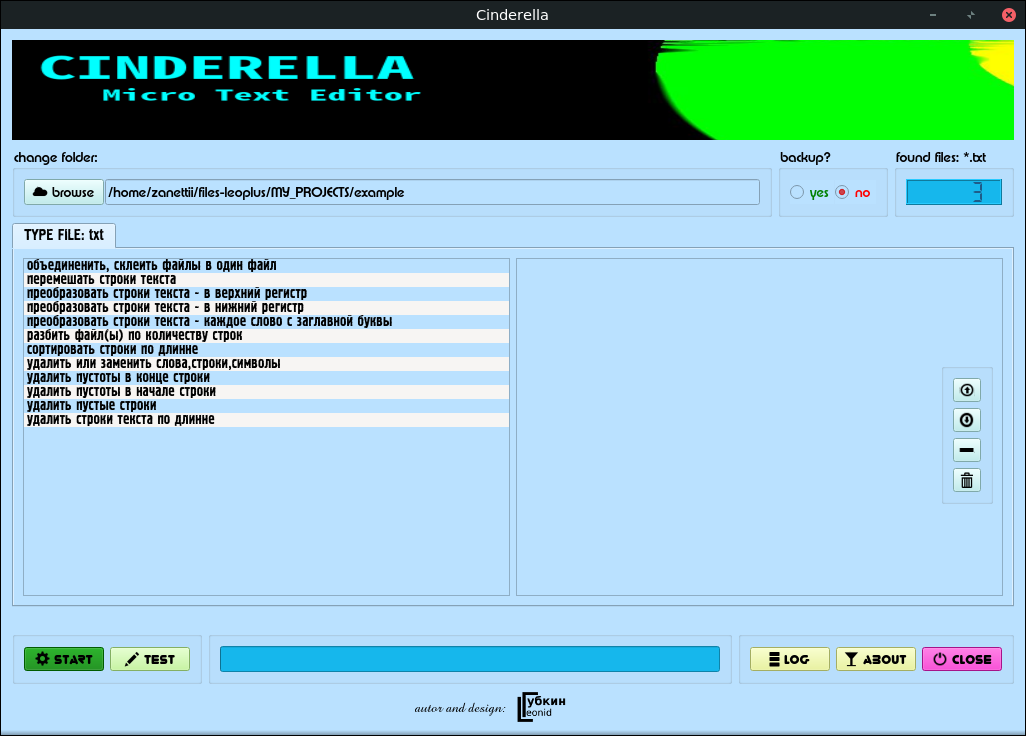
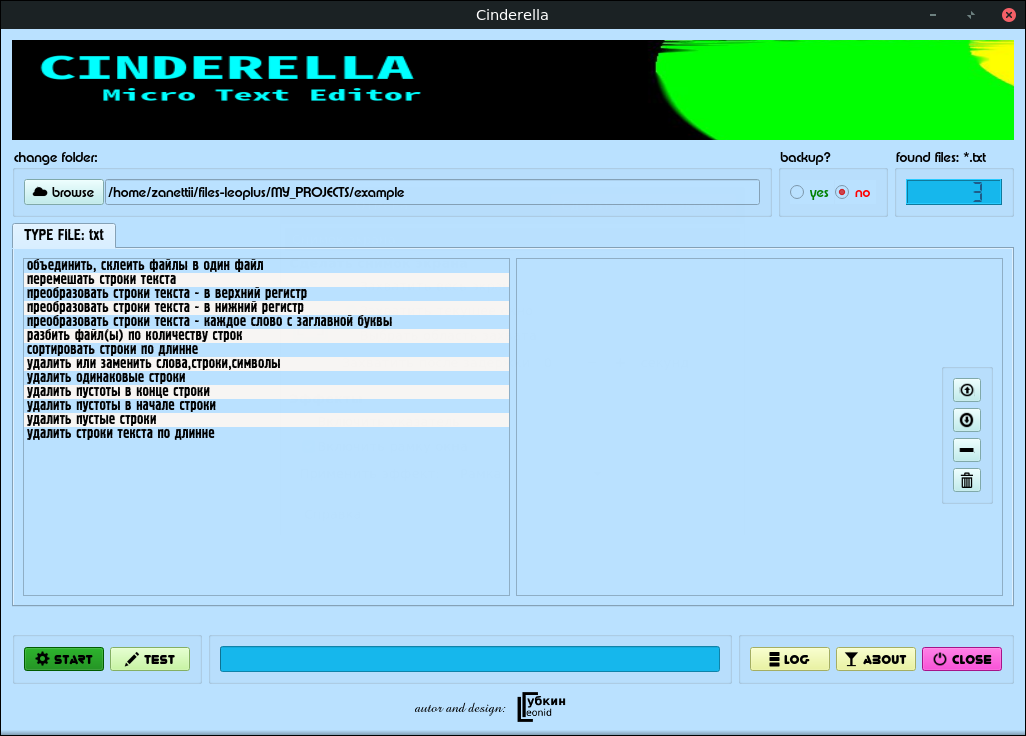
добавлен новый модуль

Changed region(s): [[0.0312, 0.5, 0.2183, 0.5938], [0.0624, 0.3438, 0.2807, 0.375]]

diff --git a/files/text_editors/delete_duplicate_str/view.py b/files/text_editors/delete_duplicate_str/view.py
@@ -1,0 +1,97 @@
+#!/usr/bin/env python3
+# -*- coding: utf-8 -*-
+"""
+Created on  05.09.2019
+
+@author: Gubkin Leonid
+
+Cinderella - Text Editor
+
+МОДУЛЬ БЕЗ НАСТРОЕК
+"""
+
+from PyQt5 import QtWidgets, QtGui, QtCore
+import os
+from ..techfunction import title_project,icon_project, tocenter
+
+
+class View(QtWidgets.QWidget):
+    def __init__(self,parent=None):
+        QtWidgets.QFrame.__init__(self,parent)
+        self.name = 'Удаление одинаковых строк'
+        self.descr = 'Модуль позволяет удалить одинаковые строки'
+        self.resize(300,300)
+        #====================
+        self.setWindowIcon(QtGui.QIcon(icon_project))
+        self.setWindowTitle(self.name + ' | Настройки | ' + title_project)
+        self.setWindowFlags(QtCore.Qt.Window|QtCore.Qt.WindowStaysOnTopHint|QtCore.Qt.MSWindowsFixedSizeDialogHint)
+        self.setWindowModality(QtCore.Qt.WindowModal)
+        self.setStyleSheet("""
+                           QToolTip { 
+                           background-color: yellow; 
+                           color: black; 
+                           border: black solid 1px}
+                           QWidget{ 
+                           background-color: #1def6f;
+                           color : black;}
+                           QLineEdit{
+                           background-color: yellow;
+                           color : black;
+                           font-family: Cousine;}
+                           QTextEdit{
+                           background-color: yellow;
+                           color : black;
+                           font-family: Cousine;}
+                           QGroupBox{
+                           color: navy;
+                           font-family: Xpressive;}
+                            """)
+        tocenter(self)
+        
+        vertical_box_all = QtWidgets.QVBoxLayout()
+        self.group_box_name = QtWidgets.QGroupBox('название модуля:')
+        vertical_box_all.addWidget(self.group_box_name)
+        gorizont_box = QtWidgets.QHBoxLayout()
+        self.group_box_name.setLayout(gorizont_box)
+        self.text_name = QtWidgets.QLineEdit()
+        self.text_name.setReadOnly(True)
+        self.text_name.setText(self.name)
+        self.text_name.setCursorPosition(0)
+        gorizont_box.addWidget(self.text_name)
+
+        self.group_box_descr = QtWidgets.QGroupBox('описание модуля:')
+        vertical_box_all.addWidget(self.group_box_descr)
+        gorizont_box_descr = QtWidgets.QHBoxLayout()
+        self.group_box_descr.setLayout(gorizont_box_descr)
+        self.text_descr = QtWidgets.QTextEdit()
+        self.text_descr.setReadOnly(True)
+        self.text_descr.setLineWrapMode(1)
+        self.text_descr.setText(self.descr)
+        gorizont_box_descr.addWidget(self.text_descr)
+        
+        self.group_box_options = QtWidgets.QGroupBox('настройки модуля:')
+        vertical_box_all.addWidget(self.group_box_options)
+        gorizont_box_options = QtWidgets.QHBoxLayout()
+        self.group_box_options.setLayout(gorizont_box_options)
+        self.text_options = QtWidgets.QTextEdit()
+        self.text_options.setReadOnly(True)
+        self.text_options.setLineWrapMode(1)
+        self.text_options.setText('Модуль не имеет настроек')
+        gorizont_box_options.addWidget(self.text_options)
+        
+        button_close = QtWidgets.QPushButton('Close')
+        button_close.setFont(QtGui.QFont("You're Gone"))
+        button_close.setStyleSheet('background-color: #fcaecd')
+        button_close.setIcon(QtGui.QIcon(os.path.join('.','files','pic','close.png')))
+        button_close.clicked.connect(lambda:self.close())
+        
+        vertical_box_all.addWidget(button_close,alignment = QtCore.Qt.AlignHCenter)
+        self.setLayout(vertical_box_all)
+        self.show()
+    
+    
+    
+   
+
+
+

diff --git a/files/add_editors.py b/files/add_editors.py
@@ -153,7 +153,18 @@ def join_files_edit(list,i):
     from files.text_editors.join_files.editor import editor
     return editor(list,i)
 #========================================================
-    
+#удалить одинаковые предложения
+#========================================================    
+#ОКНО НАСТРОЙКИ РЕДАКТОРА ТЕКСТА
+def delete_duplicate_str_view():
+    from files.text_editors.delete_duplicate_str.view import View
+    View()
+
+#САМ РЕДАКТОР
+def delete_duplicate_str_edit(list):
+    from files.text_editors.delete_duplicate_str.editor import editor
+    return editor(list)
+#========================================================
 
 
 #1.ОКНО НАСТРОЙКИ РЕДАКТОРА ТЕКСТА
@@ -171,6 +182,8 @@ all_editors = {
     'преобразовать строки текста - в нижний регистр':[str_to_lowercase_view,str_to_lowercase_edit,False,],
     'преобразовать строки текста - каждое слово с заглавной буквы':[str_to_titlecase_view,str_to_titlecase_edit,False,],
     'удалить или заменить слова,строки,символы':[remove_str_view,remove_str_edit,True,],
-    'объединенить, склеить файлы в один файл':[join_files_view,join_files_edit,False,],
+    'объединить, склеить файлы в один файл':[join_files_view,join_files_edit,False,],
+    'удалить одинаковые строки':
+[delete_duplicate_str_view,delete_duplicate_str_edit,False,],
     
     }

diff --git a/files/text_editors/delete_duplicate_str/editor.py b/files/text_editors/delete_duplicate_str/editor.py
@@ -1,0 +1,18 @@
+#!/usr/bin/env python3
+# -*- coding: utf-8 -*-
+"""
+Created on  05.09.2019
+
+@author: Gubkin Leonid
+
+Cinderella - Text Editor
+
+"""
+
+from collections import OrderedDict
+
+
+#ФУНКЦИЯ РЕДАКТОРА
+def editor(list1):
+    list1 = list(OrderedDict.fromkeys(list1))
+    return list1

diff --git a/files/text_editors/delete_duplicate_str/__init__.py b/files/text_editors/delete_duplicate_str/__init__.py
@@ -1,0 +1,10 @@
+#!/usr/bin/env python3
+# -*- coding: utf-8 -*-
+"""
+Created on  05.09.2019
+
+@author: Gubkin Leonid
+
+Cinderella - Text Editor
+
+"""
